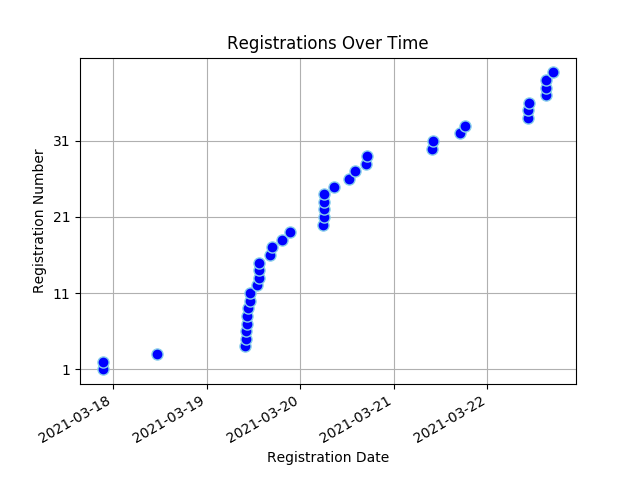
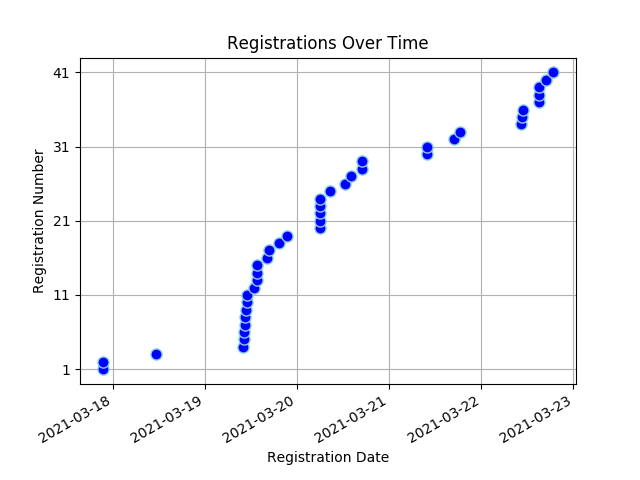
Registree stats backup on Mon 22 Mar 2021 20:42:40 SAST

diff --git a/content/registrees/_index.md b/content/registrees/_index.md
@@ -3,9 +3,9 @@ title: Registration Stats
 draft: false
 ---
 
-<ul><li><strong>Number of Registrees</strong>: 40</li>
+<ul><li><strong>Number of Registrees</strong>: 41</li>
 
-<li><strong>Number of Clubs</strong>: 21</li>
+<li><strong>Number of Clubs</strong>: 22</li>
 
 <li><strong>Club With Most Attendees</strong>: Kuilsriver (5 registrees)</li>
 </ul><h2>Registrees</h2>
@@ -33,6 +33,6 @@ draft: false
         </tr>
     </thead>
     <tbody>
-<tr><td>Valencia Beukes-Williams</td><td>Kuilsriver</td><td>410W</td></tr><tr><td>JOSE BRAGA BORGES</td><td>Malmesbury</td><td>410W</td></tr><tr><td>Herman Cadman</td><td>Other Club</td><td>410W</td></tr><tr><td>Sue Charles</td><td>Tokai</td><td>410W</td></tr><tr><td>Esme Cornelius</td><td>Kuilsriver</td><td>410W</td></tr><tr><td>Peter Daniel</td><td>Gordons Bay</td><td>410W</td></tr><tr><td>Norma Daniel</td><td>Gordons Bay</td><td>410W</td></tr><tr><td>Engela de Kock</td><td>Swellendam</td><td>410W</td></tr><tr><td>Francois de Kock</td><td>Swellendam</td><td>410W</td></tr><tr><td>Charles Flanagan</td><td>Tokai</td><td>410W</td></tr><tr><td>Jules Flanagan</td><td>Tokai</td><td>410W</td></tr><tr><td>Viv Grater</td><td>Sedgefield</td><td>410W</td></tr><tr><td>Dorothy Hess</td><td>Kuilsriver</td><td>410W</td></tr><tr><td>Jacqui Hocking</td><td>Midrand</td><td>410E</td></tr><tr><td>Cliff Hocking</td><td>Midrand</td><td>410E</td></tr><tr><td>Liz Houston</td><td>Table View</td><td>410W</td></tr><tr><td>John Houston</td><td>Table View</td><td>410W</td></tr><tr><td>WOLSLEY Jacobson</td><td>Cape Town</td><td>410W</td></tr><tr><td>Zwaai Kruger</td><td>Sedgefield</td><td>410W</td></tr><tr><td>Bevil Lakay</td><td>Mitchells Plain</td><td>410W</td></tr><tr><td>Polquer Lang</td><td>Gordons Bay</td><td>410W</td></tr><tr><td>Sharon Mangwende</td><td>Cape Town</td><td>410E</td></tr><tr><td>Beaulieu Mare</td><td>Benoni Lakes</td><td>410E</td></tr><tr><td>Denis Meyer</td><td>Port Shepstone</td><td>410E</td></tr><tr><td>Pieter Nel</td><td>George</td><td>410W</td></tr><tr><td>Tillie Nel</td><td>Eden</td><td>410W</td></tr><tr><td>Ingrid Russell</td><td>Fish Hoek</td><td>410W</td></tr><tr><td>Jeff Smith</td><td>Port Shepstone</td><td>410E</td></tr><tr><td>LYN SNYMAN</td><td>Deep South</td><td>410W</td></tr><tr><td>RORY stier</td><td>Deep South</td><td>410W</td></tr><tr><td>Patrick Strauss</td><td>Kuilsriver</td><td>410W</td></tr><tr><td>HILARY LISE VAN BREDA</td><td>Cape Town</td><td>410W</td></tr><tr><td>Marina Van de Merwe</td><td>Malmesbury</td><td>410W</td></tr><tr><td>Jeannie van Wulven</td><td>Tygerberg Hills</td><td>410W</td></tr><tr><td>Alan van Wulven</td><td>Tygerberg Hills</td><td>410W</td></tr><tr><td>Deon van Wulven</td><td>Tygerberg Hills</td><td>410W</td></tr><tr><td>Kim van Wyk</td><td>North Durban</td><td>410E</td></tr><tr><td>Edith Van Wyk-Nelson</td><td>Kuilsriver</td><td>410W</td></tr><tr><td>Brian von der Decken</td><td>King William's Town</td><td>410E</td></tr><tr><td>Allan Watson</td><td>Sea Point</td><td>410W</td></tr>
+<tr><td>Valencia Beukes-Williams</td><td>Kuilsriver</td><td>410W</td></tr><tr><td>JOSE BRAGA BORGES</td><td>Malmesbury</td><td>410W</td></tr><tr><td>Herman Cadman</td><td>Other Club</td><td>410W</td></tr><tr><td>Sue Charles</td><td>Tokai</td><td>410W</td></tr><tr><td>Esme Cornelius</td><td>Kuilsriver</td><td>410W</td></tr><tr><td>Peter Daniel</td><td>Gordons Bay</td><td>410W</td></tr><tr><td>Norma Daniel</td><td>Gordons Bay</td><td>410W</td></tr><tr><td>Engela de Kock</td><td>Swellendam</td><td>410W</td></tr><tr><td>Francois de Kock</td><td>Swellendam</td><td>410W</td></tr><tr><td>Charles Flanagan</td><td>Tokai</td><td>410W</td></tr><tr><td>Jules Flanagan</td><td>Tokai</td><td>410W</td></tr><tr><td>Viv Grater</td><td>Sedgefield</td><td>410W</td></tr><tr><td>Dorothy Hess</td><td>Kuilsriver</td><td>410W</td></tr><tr><td>Jacqui Hocking</td><td>Midrand</td><td>410E</td></tr><tr><td>Cliff Hocking</td><td>Midrand</td><td>410E</td></tr><tr><td>Liz Houston</td><td>Table View</td><td>410W</td></tr><tr><td>John Houston</td><td>Table View</td><td>410W</td></tr><tr><td>WOLSLEY Jacobson</td><td>Cape Town</td><td>410W</td></tr><tr><td>Zwaai Kruger</td><td>Sedgefield</td><td>410W</td></tr><tr><td>Bevil Lakay</td><td>Mitchells Plain</td><td>410W</td></tr><tr><td>Polquer Lang</td><td>Gordons Bay</td><td>410W</td></tr><tr><td>Sharon Mangwende</td><td>Cape Town</td><td>410E</td></tr><tr><td>Beaulieu Mare</td><td>Benoni Lakes</td><td>410E</td></tr><tr><td>Denis Meyer</td><td>Port Shepstone</td><td>410E</td></tr><tr><td>Pieter Nel</td><td>George</td><td>410W</td></tr><tr><td>Tillie Nel</td><td>Eden</td><td>410W</td></tr><tr><td>BRIAN PORTEOUS</td><td>Hibberdene</td><td>410E</td></tr><tr><td>Ingrid Russell</td><td>Fish Hoek</td><td>410W</td></tr><tr><td>Jeff Smith</td><td>Port Shepstone</td><td>410E</td></tr><tr><td>LYN SNYMAN</td><td>Deep South</td><td>410W</td></tr><tr><td>RORY stier</td><td>Deep South</td><td>410W</td></tr><tr><td>Patrick Strauss</td><td>Kuilsriver</td><td>410W</td></tr><tr><td>HILARY LISE VAN BREDA</td><td>Cape Town</td><td>410W</td></tr><tr><td>Marina Van de Merwe</td><td>Malmesbury</td><td>410W</td></tr><tr><td>Jeannie van Wulven</td><td>Tygerberg Hills</td><td>410W</td></tr><tr><td>Alan van Wulven</td><td>Tygerberg Hills</td><td>410W</td></tr><tr><td>Deon van Wulven</td><td>Tygerberg Hills</td><td>410W</td></tr><tr><td>Kim van Wyk</td><td>North Durban</td><td>410E</td></tr><tr><td>Edith Van Wyk-Nelson</td><td>Kuilsriver</td><td>410W</td></tr><tr><td>Brian von der Decken</td><td>King William's Town</td><td>410E</td></tr><tr><td>Allan Watson</td><td>Sea Point</td><td>410W</td></tr>
 </tbody>
 </table>

diff --git a/content/full_stats/_index.md b/content/full_stats/_index.md
@@ -16,17 +16,17 @@ draft: false
 </head>
 <body>
 <h1 style="color: #000000;">Full Registration Stats</h1>
-<ul><li><strong>Number of Registrees</strong>: 40</li>
-<li><strong>Number of Clubs</strong>: 21</li>
+<ul><li><strong>Number of Registrees</strong>: 41</li>
+<li><strong>Number of Clubs</strong>: 22</li>
 <li><strong>Club With Most Attendees</strong>: Kuilsriver (5 registrees)</li>
 
 <li><strong>Number of District 410W Convention Attendees</strong>: 32</li>
 <li><strong>Number of District 410W Convention Voters</strong>: 19</li>
-<li><strong>Number of District 410E Convention Attendees</strong>: 8</li>
-<li><strong>Number of District 410E Convention Voters</strong>: 5</li>
+<li><strong>Number of District 410E Convention Attendees</strong>: 9</li>
+<li><strong>Number of District 410E Convention Voters</strong>: 6</li>
 
-<li><strong>Number of MD410 Convention Attendees</strong>: 39</li>
-<li><strong>Number of MD410 Convention Voters</strong>: 23</li>
+<li><strong>Number of MD410 Convention Attendees</strong>: 40</li>
+<li><strong>Number of MD410 Convention Voters</strong>: 24</li>
 
 </ul>
 <h2>Registrees</h2>
@@ -341,6 +341,17 @@ draft: false
 <td>Eden</td>
 <td>410W</td>
 <td>No</td>
+<td style="background-color: lightgreen">Yes</td>
+<td style="background-color: lightgreen">Yes</td>
+<td>No</td>
+</tr>
+
+    
+<td>42</td>
+<td>BRIAN PORTEOUS</td>
+<td>Hibberdene</td>
+<td>410E</td>
+<td style="background-color: lightgreen">Yes</td>
 <td style="background-color: lightgreen">Yes</td>
 <td style="background-color: lightgreen">Yes</td>
 <td>No</td>
